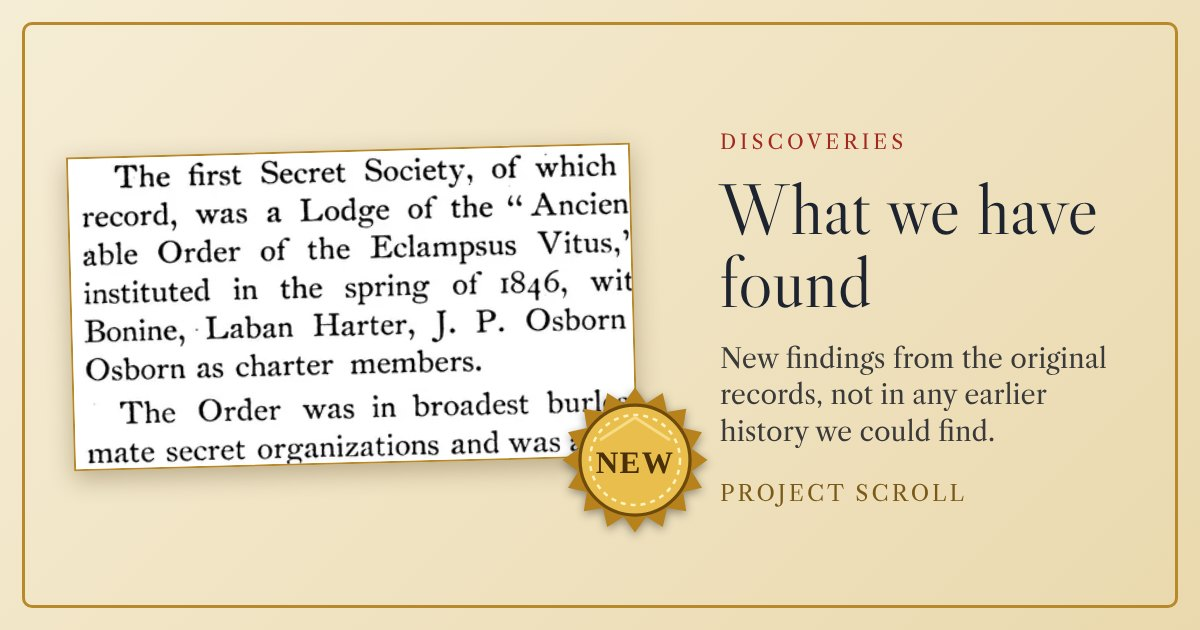
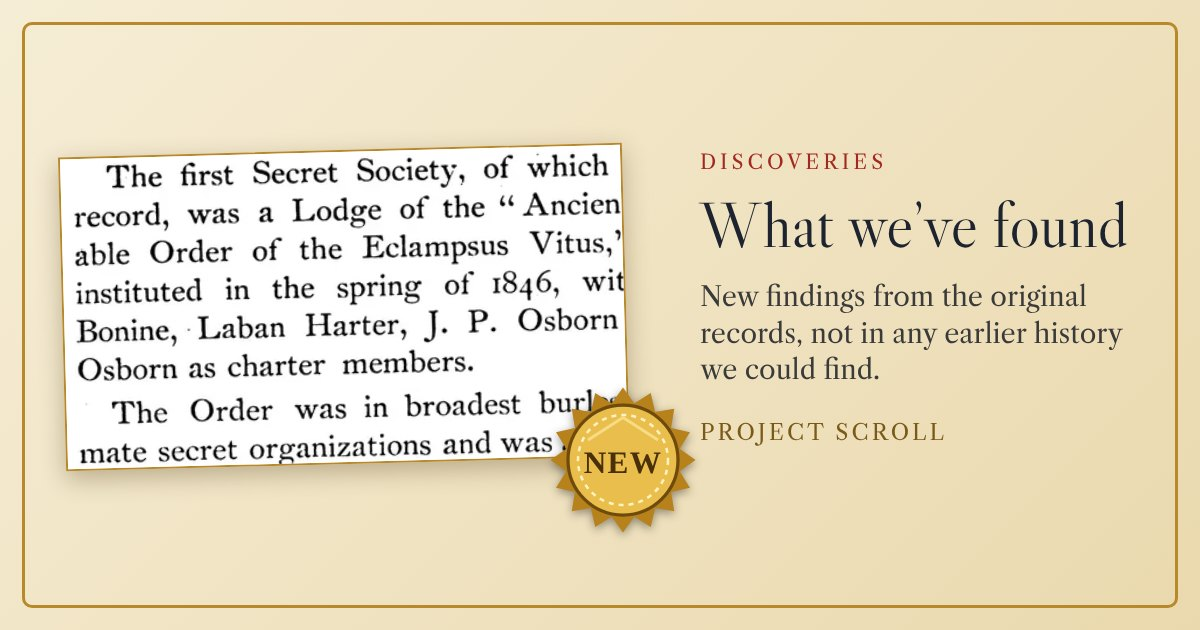
Work in progress (not published): Discoveries heading and share picture read What we’ve found
Claude-Session: https://claude.ai/code/session_01HMuVy4MP32mW96WdEuAjrt

Changed region(s): [[0.0308, 0.2111, 0.9558, 0.8444]]

diff --git a/discoveries/index.html b/discoveries/index.html
@@ -68,7 +68,7 @@
     <p class="crumb"><a href="/">← Project Scroll</a> · <a href="/news/">All the news</a> · <a href="/sources/libraries/">The libraries behind the stories</a></p>
     <article class="dsc">
     <p class="kicker">Discoveries</p>
-    <h1>What we have found</h1>
+    <h1>What we’ve found</h1>
     <p class="lede">Most of what Project Scroll publishes was known to someone before us; we say where. These are the exceptions: facts found in the original records by Michael Urbanski for Project Scroll that we could not find in any published history, article or website. Each shows the record it came from, links to the story where it is set out with its source, and lists what we searched before calling it new.</p>
     
     <ol class="dsc-list"></ol>

diff --git a/_tools/build_discoveries.py b/_tools/build_discoveries.py
@@ -44,7 +44,7 @@ chips = ('<div class="dsc-filter" data-dscfilter hidden role="group" aria-label=
 body = f'''    <p class="crumb"><a href="/">← Project Scroll</a> · <a href="/news/">All the news</a> · <a href="/sources/libraries/">The libraries behind the stories</a></p>
     <article class="dsc">
     <p class="kicker">Discoveries</p>
-    <h1>What we have found</h1>
+    <h1>What we’ve found</h1>
     <p class="lede">Most of what Project Scroll publishes was known to someone before us; we say where. These are the exceptions: facts found in the original records by Michael Urbanski for Project Scroll that we could not find in any published history, article or website. Each shows the record it came from, links to the story where it is set out with its source, and lists what we searched before calling it new.</p>
     {chips}
     <ol class="dsc-list">{items}</ol>
